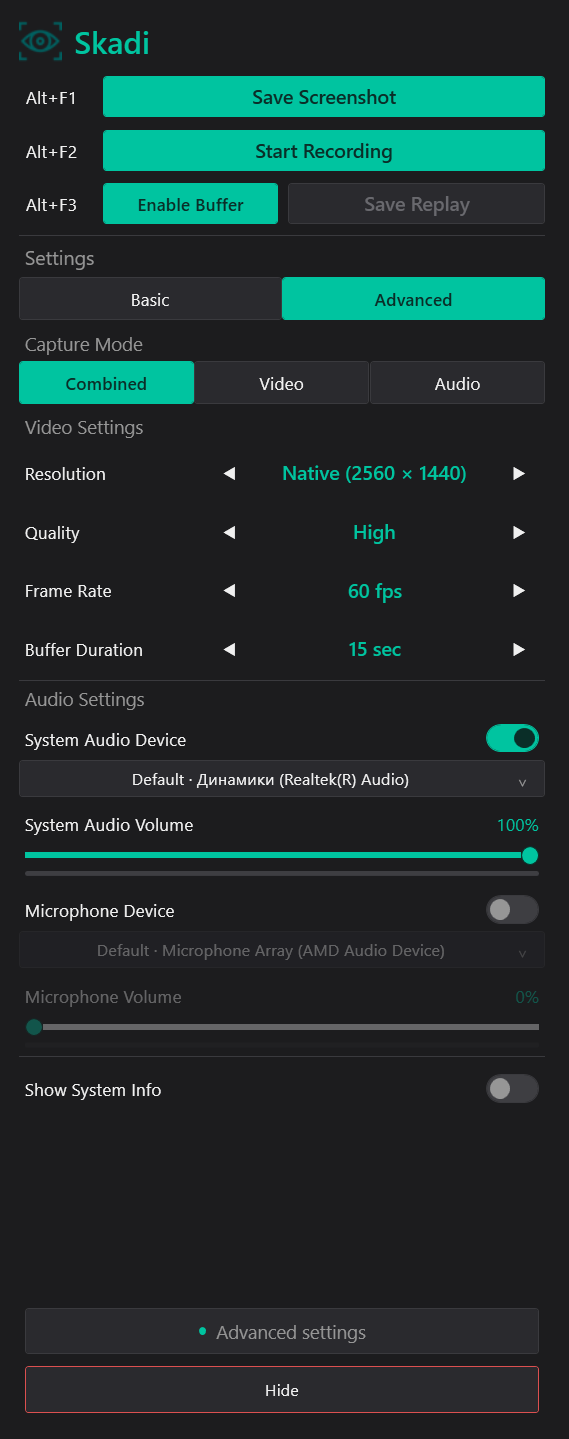
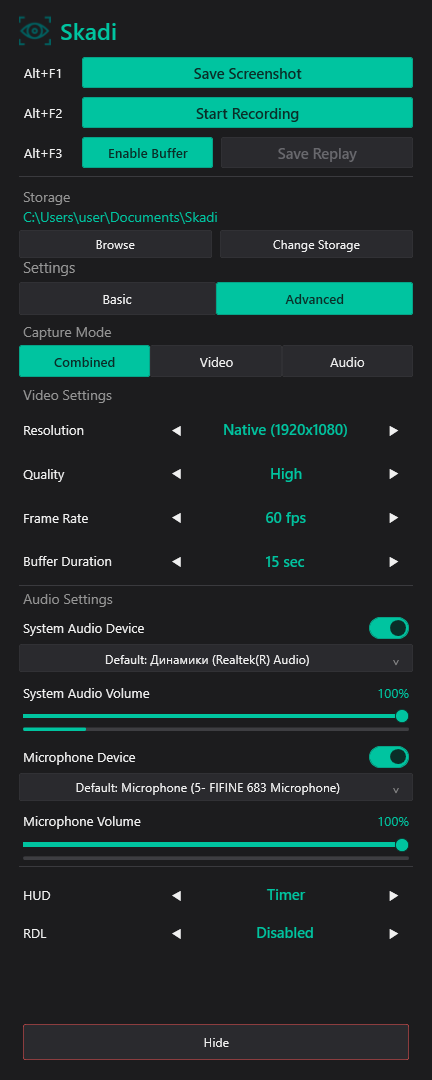
Release Skadi 2.0.4

diff --git a/README.md b/README.md
@@ -1,5 +1,10 @@
 # Skadi
 
+[![Release](https://img.shields.io/github/v/release/Catharsjs/Skadi?label=release)](https://github.com/Catharsjs/Skadi/releases/latest)
+[![Windows](https://img.shields.io/badge/Windows-10%20%7C%2011-0078D4)](#requirements)
+[![.NET](https://img.shields.io/badge/.NET-10.0-512BD4)](https://dotnet.microsoft.com/)
+[![License](https://img.shields.io/badge/license-source--available-lightgrey)](LICENSE.md)
+
 Skadi is a compact Windows desktop capture application with a WPF side-panel UI and a native GPU-accelerated recording pipeline.
 
 It runs in the background and provides three primary workflows:
@@ -19,6 +24,8 @@ https://github.com/Catharsjs/Skadi/releases/latest/download/SkadiSetup.exe
 ```
 
 The installer targets x64 Windows and installs the .NET 10 Desktop Runtime when it is missing.
+
+> The installer is currently not code-signed. Windows Defender SmartScreen may therefore ask for confirmation before the first installation.
 
 ## Requirements
 
@@ -81,7 +88,17 @@ Hotkeys can be changed or cleared in the UI.
 - Monitor topology changes safely stop an active recording
 - Replay buffer is restarted after monitor topology changes
 - Capture targets refresh with a fade transition
+- Optional recording duration limit: 30 minutes, 1 hour, or 2 hours
 - Recording and disk-performance diagnostics are written to the application logs
+
+### Storage
+
+- Custom storage browser for local folders, mapped network drives, and UNC paths
+- SMB authentication through the active Windows network session or user-supplied credentials
+- Credentials are used for the Windows session and are not stored in Skadi settings
+- Network-bound media is finalized locally before delivery to the selected storage
+- Uploads use a temporary destination file, verify the copied size, and then rename atomically
+- If network delivery fails, the completed local file is retained instead of being deleted
 
 ### UI
 
@@ -96,7 +113,7 @@ Hotkeys can be changed or cleared in the UI.
 ```text
 EventCapture.App
   WPF UI, MVVM, settings, hotkeys, tray, notifications, HUD,
-  capture orchestration and screenshot selection
+  capture orchestration, screenshot selection and media delivery
 
 EventCapture.Core
   audio capture and mixing, screenshot backends, replay export,
@@ -120,6 +137,7 @@ Selected monitor
     -> H.264 encoder
     -> fragmented MP4 mux/writer
     -> Record YYYY-MM-DD HH-mm-ss.mp4
+    -> optional verified delivery to network storage
 ```
 
 Frames are written continuously. A long recording is not accumulated as raw video in RAM.
@@ -142,6 +160,7 @@ Encoded H.264 packets + segmented audio
     -> snapshot requested by Save Replay
     -> in-process audio mix and Media Foundation mux
     -> Replay YYYY-MM-DD HH-mm-ss.mp4
+    -> optional verified delivery to network storage
 ```
 
 The replay buffer stores encoded packets and short audio segments, not uncompressed video frames.
@@ -155,6 +174,7 @@ Alt+F1
     -> full-monitor or region selection
     -> PNG encoding
     -> save file and update clipboard
+    -> optional verified delivery to network storage
     -> release frozen bitmaps and reusable capture resources when appropriate
 ```
 
@@ -164,6 +184,8 @@ Alt+F1
 - Replay video memory/storage is bounded by the configured replay duration.
 - Continuous video is streamed directly into a fragmented MP4 file.
 - Audio mode is streamed directly into MP3.
+- Network destinations use the local save folder as staging; only a finalized file is copied to the remote destination.
+- Network delivery requires free destination space for the file plus a 512 MiB reserve.
 - Screenshot working memory may temporarily grow while monitor-sized bitmaps and PNG buffers exist; those objects are disposed after the operation.
 - Windows and .NET may retain committed memory for reuse, so Task Manager working set does not always return immediately to its startup value.
 
@@ -206,6 +228,7 @@ The app project copies `EventCapture.Native.dll` and the required oneVPL runtime
 ## Build Installer
 
 ```powershell
+MSBuild EventCapture.slnx /t:Clean /p:Configuration=Release /p:Platform=x64
 MSBuild EventCapture.App\EventCapture.App.csproj /t:Restore,Publish /p:Configuration=Release /p:Platform=x64 /p:RuntimeIdentifier=win-x64 /p:SelfContained=false
 ISCC Installer\Skadi.iss
 ```
@@ -225,6 +248,7 @@ EventCapture.Native/    native GPU video engine and C ABI
 Installer/              Inno Setup installer
 ThirdParty/oneVPL/      pinned oneVPL runtime, import library, headers and license
 docs/screenshots/       README screenshots
+THIRD-PARTY-NOTICES.md  dependency licenses and attribution
 ```
 
 ## Known Platform Restrictions
@@ -236,13 +260,21 @@ docs/screenshots/       README screenshots
 
 ## Screenshots
 
-![Skadi Basic Settings](docs/screenshots/basicsettings.png)
-![Skadi Advanced Settings](docs/screenshots/advancedsettings.png)
+| Basic settings | Advanced settings |
+|---|---|
+| ![Skadi Basic Settings](docs/screenshots/basicsettings.png) | ![Skadi Advanced Settings](docs/screenshots/advancedsettings.png) |
+
+### Storage Browser
+
+![Skadi Storage Browser](docs/screenshots/storagebrowser.png)
 
 ## License
 
 Copyright (c) 2026 Catharsjs. All rights reserved.
 
-This repository is public for portfolio and source-code review purposes only. See [LICENSE.md](LICENSE.md) for the complete terms.
+The compiled application is free for personal, non-commercial use. Company, organizational, employment-related, and revenue-generating use requires a separate commercial license. See the [End-User License Agreement](EULA.txt).
+
+This repository is source-available for portfolio and source-code review purposes. The source code may not be redistributed or used commercially without written permission. See [LICENSE.md](LICENSE.md) for the complete source terms.
 
 Third-party components remain subject to their own licenses. The pinned oneVPL license is available at `ThirdParty/oneVPL/LICENSE.txt`.
+The complete dependency summary is available in [THIRD-PARTY-NOTICES.md](THIRD-PARTY-NOTICES.md).

diff --git a/LICENSE.md b/LICENSE.md
@@ -4,13 +4,15 @@ Copyright (c) 2026 Catharsjs. All rights reserved.
 
 This repository and its original source code are made publicly available solely for portfolio presentation, evaluation, and source-code review.
 
-Unless the copyright holder provides explicit prior written permission, you may not:
+This license governs Skadi's original source code. Use of the compiled application is governed separately by `EULA.txt`. The personal-use grant in the EULA does not grant permission to copy, modify, redistribute, or commercially use the source code.
 
-- use the software or source code for commercial purposes;
-- redistribute the software, source code, binaries, or modified versions;
+Except for rights granted for official compiled releases under `EULA.txt`, and unless the copyright holder provides explicit prior written permission, you may not:
+
+- use the source code, or binaries independently built from it, for commercial purposes;
+- redistribute the source code, independently built binaries, or modified versions;
 - modify, adapt, translate, or create derivative works for publication or distribution;
-- sublicense, sell, rent, host, or provide the software as a service;
-- deploy the software within an organization or include it in another product.
+- sublicense, sell, rent, host, or provide the source code or independently built binaries as a service;
+- deploy independently built binaries within an organization or include the source code in another product.
 
 Viewing the repository and building or running the software privately for evaluation does not grant ownership or any broader license rights.
 
@@ -20,11 +22,9 @@ THE SOFTWARE IS PROVIDED "AS IS", WITHOUT WARRANTY OF ANY KIND, EXPRESS OR IMPLI
 
 Third-party components are not covered by the restrictions above and remain subject to their respective licenses.
 
-Skadi includes or references third-party dependencies such as:
+Skadi includes or references third-party dependencies. Their licenses, copyright notices, package versions, and source locations are summarized in `THIRD-PARTY-NOTICES.md`. The bundled Intel oneVPL license is also available at `ThirdParty/oneVPL/LICENSE.txt`.
 
-- Intel oneVPL, distributed under the terms in `ThirdParty/oneVPL/LICENSE.txt`;
-- NuGet dependencies, including NAudio, SharpDX, LibreHardwareMonitorLib, and their transitive dependencies, each under its own package license;
-- Microsoft Windows SDK, .NET, WPF, DirectX, and Media Foundation components, subject to Microsoft's applicable license terms.
+Microsoft Windows SDK, .NET, WPF, DirectX, and Media Foundation components remain subject to Microsoft's applicable license terms.
 
 No rights to third-party trademarks, libraries, runtimes, or APIs are granted by this license.
 

diff --git a/THIRD-PARTY-NOTICES.md b/THIRD-PARTY-NOTICES.md
@@ -1,0 +1,35 @@
+# Third-Party Notices
+
+Skadi includes third-party software that remains subject to its own license terms. This file summarizes the dependencies distributed with the Windows application. It does not replace the original license texts or grant additional rights.
+
+## Native Runtime
+
+| Component | Version | License | Project |
+|---|---:|---|---|
+| Intel oneVPL dispatcher | pinned runtime | MIT | [uxlfoundation/oneVPL](https://github.com/uxlfoundation/oneVPL) |
+
+The complete oneVPL MIT license text is distributed at `ThirdParty/oneVPL/LICENSE.txt`.
+
+## NuGet Dependencies
+
+| Component | Version | License | Project |
+|---|---:|---|---|
+| LibreHardwareMonitorLib | 0.9.7-pre675 | MPL-2.0 | [LibreHardwareMonitor](https://github.com/LibreHardwareMonitor/LibreHardwareMonitor) |
+| BlackSharp.Core | 1.0.12 | MPL-2.0 | [BlackSharp](https://github.com/Blacktempel/BlackSharp) |
+| DiskInfoToolkit | 2.0.3 | MPL-2.0 | [DiskInfoToolkit](https://github.com/Blacktempel/DiskInfoToolkit) |
+| RAMSPDToolkit-NDD | 1.5.0 | MPL-2.0 | [RAMSPDToolkit](https://github.com/Blacktempel/RAMSPDToolkit) |
+| NAudio and NAudio component packages | 2.3.0 | MIT | [NAudio](https://github.com/naudio/NAudio) |
+| SharpDX, SharpDX.Direct3D11, SharpDX.DXGI | 4.2.0 | MIT | [SharpDX](https://github.com/sharpdx/SharpDX) |
+| HidSharp | 2.6.4 | package license | [HidSharp](https://www.nuget.org/packages/HidSharp/2.6.4) |
+| Mono.Posix.NETStandard | 1.0.0 | package license | [Mono.Posix.NETStandard](https://www.nuget.org/packages/Mono.Posix.NETStandard/1.0.0) |
+| Microsoft .NET support packages | resolved by NuGet | MIT or applicable Microsoft terms | [.NET](https://github.com/dotnet/runtime) |
+
+The package graph also contains framework and runtime-specific transitive assets selected by NuGet for the target platform. Exact resolved versions are recorded in `EventCapture.Core/obj/project.assets.json` after restore and in the published `Skadi.deps.json`.
+
+## License References
+
+- Mozilla Public License 2.0: <https://www.mozilla.org/MPL/2.0/>
+- MIT License: <https://opensource.org/license/mit>
+- NuGet package metadata: <https://www.nuget.org/>
+
+Copyright remains with each component's respective authors and contributors. Refer to the linked projects and package metadata for the complete notices and license texts applicable to each distributed version.
